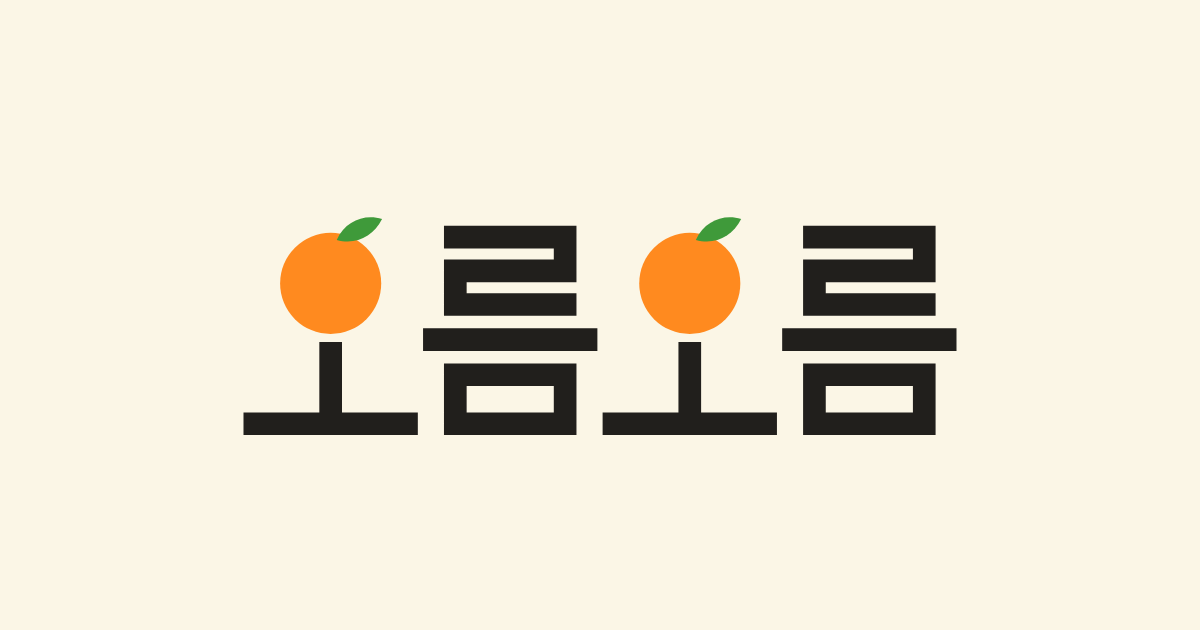
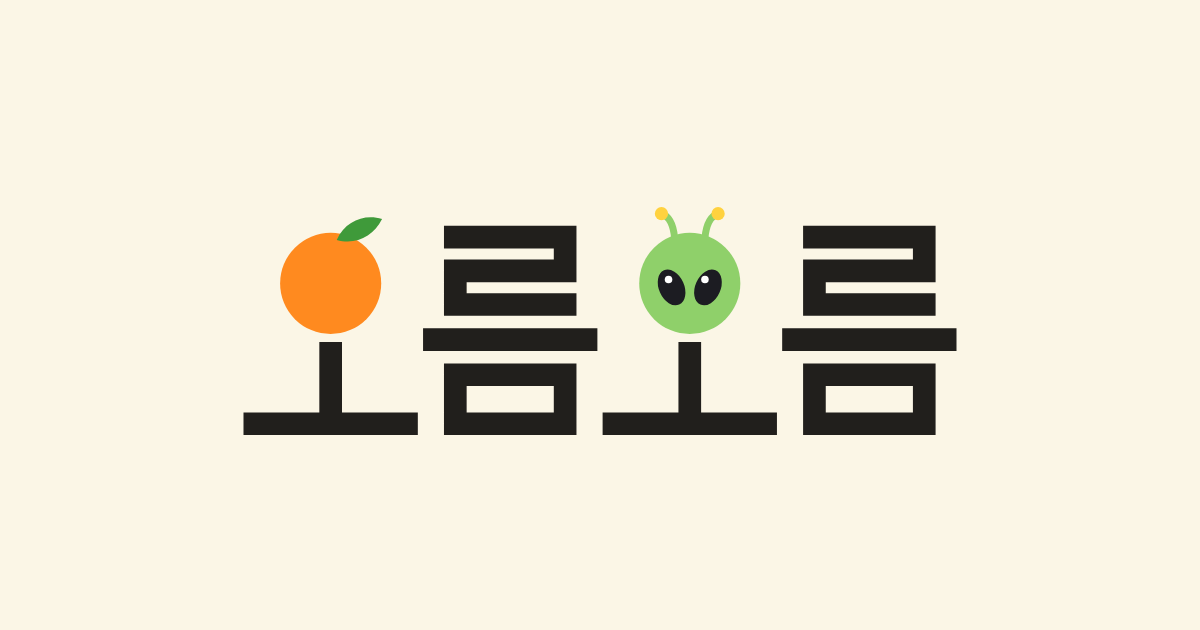
#150 첫 화면 UFO, 로고 두 번째 '오' 를 외계인 얼굴로
Claude-Session: https://claude.ai/code/session_01Hf36mc3kXyFKZ5jz1TVCuK

Changed region(s): [[0.5242, 0.3317, 0.6167, 0.5429]]

diff --git a/src/game/ufo.js b/src/game/ufo.js
@@ -1,0 +1,75 @@
+// 첫 화면 UFO (#150): 시작 전, 뒤 풍경 하늘로 비행접시가 로고 뒤를 스치며 가로지름. 시작하면 사라짐
+// 카메라 앞 UFO.dist 거리에 두고 화면 좌표로 움직임(첫 화면 카메라가 오름을 돌아도 늘 화면 안을 지나감). 게임 안 구역 5 외계인과는 따로
+// 모양은 코드로: 납작한 접시 + 둥근 덮개(안에 초록 외계인) + 테두리 불빛, 아래 옅은 초록 빛기둥(저사양은 빼고 접시만)
+import * as THREE from 'three';
+import { UFO } from '../balance.js';
+import { LOW } from '../gfx2.js';
+import { gradHard } from '../toon.js';
+import { state, late } from './state.js';
+import { $ } from './save.js';
+import { scene, camera } from './scene.js';
+import { sound } from './hooks.js';
+
+const ON = new THREE.Color('#ffd23f'), OFF = new THREE.Color('#8a7a3a');
+const toon = (color) => new THREE.MeshToonMaterial({ color, gradientMap: gradHard, fog: false, emissive: color, emissiveIntensity: 0.35 }); // 밤에도 하늘에서 보이게 조금 스스로 빛남
+function build() {
+  const g = new THREE.Group(), body = new THREE.Group(); g.add(body);
+  const disc = new THREE.Mesh(new THREE.SphereGeometry(1, 24, 10), toon('#b9c6c1')); disc.scale.set(1, 0.24, 1); body.add(disc);
+  const rim = new THREE.Mesh(new THREE.TorusGeometry(0.98, 0.07, 6, 28), toon('#6f7f79')); rim.rotation.x = Math.PI / 2; body.add(rim);
+  const belly = new THREE.Mesh(new THREE.CylinderGeometry(0.34, 0.42, 0.14, 16), toon('#7d8c86')); belly.position.y = -0.2; body.add(belly);
+  const dome = new THREE.Mesh(new THREE.SphereGeometry(0.46, 18, 8, 0, Math.PI * 2, 0, Math.PI / 2), new THREE.MeshToonMaterial({ color: '#bdf0e2', gradientMap: gradHard, fog: false, transparent: true, opacity: 0.55, depthWrite: false }));
+  dome.position.y = 0.14; dome.renderOrder = 2;
+  const head = new THREE.Mesh(new THREE.SphereGeometry(0.2, 14, 10), toon('#8fd06a')); head.position.y = 0.3; body.add(head); body.add(dome);
+  const eyeM = new THREE.MeshBasicMaterial({ color: '#1c1c22', fog: false });
+  for (const k of [-1, 1]) { const e = new THREE.Mesh(new THREE.SphereGeometry(0.06, 8, 6), eyeM); e.scale.set(0.8, 1.3, 0.5); e.position.set(k * 0.085, 0.31, 0.17); e.rotation.z = -k * 0.4; body.add(e); }
+  // 테두리 불빛 8개: 한 번에 그리기(InstancedMesh), 번갈아 깜빡임은 색으로
+  const lights = new THREE.InstancedMesh(new THREE.SphereGeometry(0.07, 8, 6), new THREE.MeshBasicMaterial({ color: '#ffffff', fog: false }), 8), m4 = new THREE.Matrix4();
+  for (let i = 0; i < 8; i++) { const a = i / 8 * Math.PI * 2; lights.setMatrixAt(i, m4.makeTranslation(Math.cos(a) * 0.82, 0.02, Math.sin(a) * 0.82)); lights.setColorAt(i, ON); }
+  body.add(lights);
+  let beam = null;
+  if (!LOW) { // 빛기둥: 위가 좁고 아래가 넓은 옅은 초록 원뿔
+    beam = new THREE.Mesh(new THREE.ConeGeometry(0.75, 2.6, 20, 1, true), new THREE.MeshBasicMaterial({ color: '#9dff9a', transparent: true, opacity: 0.2, depthWrite: false, side: THREE.DoubleSide, blending: THREE.AdditiveBlending, fog: false }));
+    beam.position.y = -1.5; beam.renderOrder = 1; g.add(beam);
+  }
+  g.visible = false; g.frustumCulled = false; g.traverse((o) => { o.frustumCulled = false; });
+  return { g, body, lights, beam };
+}
+
+const U = build(); U.g.userData.noCull = true; scene.add(U.g); // 멀리 감추기(farCull)에서 빼기: 카메라 앞을 따라다님
+let wait = UFO.first, t = -1, dir = 1, y0 = 0.5, done = false;
+const fwd = new THREE.Vector3(), right = new THREE.Vector3(), up = new THREE.Vector3(), tmpQ = new THREE.Quaternion(), tilt = new THREE.Quaternion(), X = new THREE.Vector3(1, 0, 0), Z = new THREE.Vector3(0, 0, 1);
+const introOn = () => !$('intro').hidden && !state.sessionOn;
+// 로고 윗선 높이를 화면 좌표(-1~1)로: 접시가 글자 윗부분 뒤를 스치고 덮개·빛기둥은 보이게. 로고가 안 보이면(도움말) 화면 위쪽 1/4
+function logoY() {
+  const el = $('intro-logo'), r = el?.getBoundingClientRect();
+  if (!r || !r.height) return 0.5;
+  return 1 - 2 * (r.top + r.height * 0.08) / innerHeight;
+}
+function end() { done = true; U.g.visible = false; scene.remove(U.g); U.g.traverse((o) => { o.geometry?.dispose(); }); }
+export function tickUfo(dt) {
+  if (done) return;
+  if (!introOn()) { if (state.sessionOn) end(); else U.g.visible = false; return; } // 시작을 누르면 사라짐
+  if (t < 0) { wait -= dt; if (wait > 0) { U.g.visible = false; return; } t = 0; dir = Math.random() < 0.5 ? 1 : -1; y0 = logoY(); sound.ufo?.(); }
+  t += dt; const u = t / UFO.cross;
+  if (u >= 1) { t = -1; wait = UFO.gap[0] + Math.random() * (UFO.gap[1] - UFO.gap[0]); U.g.visible = false; return; }
+  const D = UFO.dist, hh = D * Math.tan(camera.fov * Math.PI / 360), hw = hh * camera.aspect;
+  const diam = Math.min(2 * hh * UFO.size, 2 * hw * UFO.sizeW), s = diam / 2;
+  const sm = u * u * (3 - 2 * u) * 0.35 + u * 0.65; // 들어올 때·나갈 때 살짝 느리게
+  const x = dir * (-(hw + diam) + sm * 2 * (hw + diam)), y = y0 * hh + Math.sin(t * 2.6) * diam * UFO.bob;
+  camera.getWorldDirection(fwd); right.set(1, 0, 0).applyQuaternion(camera.quaternion); up.set(0, 1, 0).applyQuaternion(camera.quaternion);
+  U.g.position.copy(camera.position).addScaledVector(fwd, D).addScaledVector(right, x).addScaledVector(up, y);
+  U.g.quaternion.copy(camera.quaternion); // 화면과 같은 방향으로 세운 뒤 윗면이 조금 보이게 숙이고, 가는 쪽으로 기우뚱
+  tilt.setFromAxisAngle(X, 0.32); U.g.quaternion.multiply(tilt);
+  tmpQ.setFromAxisAngle(Z, -dir * 0.14 + Math.sin(t * 3.1) * 0.07); U.g.quaternion.multiply(tmpQ);
+  U.g.scale.setScalar(s);
+  const blink = Math.floor(t * 8);
+  for (let i = 0; i < 8; i++) U.lights.setColorAt(i, (i + blink) % 2 ? ON : OFF);
+  U.lights.instanceColor.needsUpdate = true;
+  if (U.beam) U.beam.material.opacity = 0.14 + 0.08 * Math.sin(t * 9) * Math.sin(t * 2.3);
+  U.g.visible = true;
+}
+late.tickUfo = tickUfo;
+// 확인용 (#150): window.__oreum.ufo() 로 바로 지나가게
+late.ufoNow = () => { if (!done) { t = -1; wait = 0; } };
+const pv = new THREE.Vector3();
+late.ufoInfo = () => ({ on: U.g.visible, t, wait: +wait.toFixed(1), done, x: U.g.visible ? +pv.copy(U.g.position).project(camera).x.toFixed(2) : null, y: U.g.visible ? +pv.copy(U.g.position).project(camera).y.toFixed(2) : null, beam: !!U.beam });

diff --git a/src/logo.js b/src/logo.js
@@ -1,7 +1,7 @@
-// 오름오름 로고 (#87): 획 굵기가 고른 굵은 고딕 '오름오름', 두 '오'의 ㅇ 은 모두 귤(귤색 원 + 작은 초록 잎). 능선 장식 없음.
+// 오름오름 로고 (#87): 획 굵기가 고른 굵은 고딕 '오름오름'. 첫 '오'의 ㅇ 은 귤(귤색 원 + 작은 초록 잎), 두 번째 ㅇ 은 외계인 얼굴(#150). 능선 장식 없음.
 // 글꼴에 기대지 않고 선(path)으로만 그려서 첫 화면·파비콘·공유 이미지·사진 틀 어디서나 똑같이 보임. 가로형 하나로 통일.
 // 색: 밝은 배경에선 짙은 먹색, 어두운 배경(dark)에선 흰색. 귤만 색.
-export const LOGO_COLORS = { ink: '#211f1c', white: '#ffffff', paper: '#fbf6e6', gyul: '#ff8a1f', leaf: '#3f9a3a' };
+export const LOGO_COLORS = { ink: '#211f1c', white: '#ffffff', paper: '#fbf6e6', gyul: '#ff8a1f', leaf: '#3f9a3a', alien: '#8fd06a', eye: '#1c1c22', tip: '#ffd23f' }; // alien·eye·tip: 게임 외계인 아이콘(zonelook.js)과 같은 색
 export const LOGO_WEIGHTS = { bold: 13, heavy: 16.5 }; // 글자 획 굵기 (글자 칸 100×120 기준). 굵게 / 아주 굵게
 export const LOGO_WEIGHT = 'bold'; // 지금 쓰는 굵기
 const H = 120, ADV = 103; // 글자 높이, 글자 사이(폭 100 + 3: 촘촘히)
@@ -32,6 +32,19 @@ const f2 = (v) => +v.toFixed(2);
 const GYUL = (cx, cy, r, s) => `<circle cx="${cx}" cy="${cy}" r="${r}" fill="${LOGO_COLORS.gyul}"/>` + LEAF(cx, cy, r, s);
 // 귤 둘레 테두리(halo): 같은 모양을 테두리 색으로 굵게
 const GYUL_HALO = (cx, cy, r, c, sw) => { const e = ` stroke="${c}" stroke-width="${sw}" stroke-linejoin="round"`; return `<circle cx="${cx}" cy="${cy}" r="${r}" fill="${c}"${e}/>` + LEAF(cx, cy, r, 1, c, e); };
+// 외계인 얼굴 (#150): 귤과 같은 원(같은 반지름·자리) + 크고 기운 검은 눈 둘 + 잎 자리에 더듬이 둘
+const ANT = (cx, cy, r, stem, tip, sw = 0, extra = '') => [-1, 1].map((k) => {
+  const x0 = cx + k * r * 0.3, y0 = cy - r * 0.9, x1 = cx + k * r * 0.56, y1 = cy - r - 11;
+  return `<path d="M${f2(x0)} ${f2(y0)}Q${f2(cx + k * r * 0.34)} ${f2(y1 + 2)} ${f2(x1)} ${f2(y1)}" fill="none" stroke="${stem}" stroke-width="${f2(4 + sw)}" stroke-linecap="round"/>`
+    + `<circle cx="${f2(x1)}" cy="${f2(y1)}" r="3.8" fill="${tip}"${extra}/>`;
+}).join('');
+const ALIEN = (cx, cy, r) => {
+  const C = LOGO_COLORS, ex = r * 0.36, ey = cy + r * 0.08, rx = r * 0.25, ry = r * 0.37;
+  const eye = (k) => `<ellipse cx="${f2(cx + k * ex)}" cy="${f2(ey)}" rx="${f2(rx)}" ry="${f2(ry)}" fill="${C.eye}" transform="rotate(${k * 24} ${f2(cx + k * ex)} ${f2(ey)})"/>`
+    + `<circle cx="${f2(cx + k * ex - r * 0.06)}" cy="${f2(ey - ry * 0.42)}" r="${f2(r * 0.075)}" fill="#fff"/>`;
+  return ANT(cx, cy, r, C.alien, C.tip) + `<circle cx="${cx}" cy="${cy}" r="${r}" fill="${C.alien}"/>` + eye(-1) + eye(1);
+};
+const ALIEN_HALO = (cx, cy, r, c, sw) => `<circle cx="${cx}" cy="${cy}" r="${r}" fill="${c}" stroke="${c}" stroke-width="${sw}"/>` + ANT(cx, cy, r, c, c, sw, ` stroke="${c}" stroke-width="${sw}"`);
 
 // 로고 SVG 문자열 (가로형). opts.dark: 어두운 배경용(흰 글자), opts.weight: 'bold'|'heavy',
 // opts.halo: 글자 둘레 테두리 색(장면 위에 얹을 때 떼어 보이게), opts.cls·opts.label
@@ -40,7 +53,7 @@ export function logoSvg({ dark = false, weight = LOGO_WEIGHT, halo = '', cls = '
   let d = '', gy = '', hg = '';
   [...'오름오름'].forEach((ch, i) => {
     const s = syl(ch, i * ADV, w); d += s.d;
-    if (s.gyul) { const { cx, cy, r } = s.gyul; gy += GYUL(cx, cy, r); if (halo) hg += GYUL_HALO(cx, cy, r, halo, 12); }
+    if (s.gyul) { const { cx, cy, r } = s.gyul, al = i > 0; gy += al ? ALIEN(cx, cy, r) : GYUL(cx, cy, r); if (halo) hg += al ? ALIEN_HALO(cx, cy, r, halo, 12) : GYUL_HALO(cx, cy, r, halo, 12); } // 두 번째 '오' 는 외계인 (#150)
   });
   const st = (c, sw) => `fill="none" stroke="${c}" stroke-width="${sw}" stroke-linecap="butt" stroke-linejoin="miter"`;
   const pad = halo ? 10 : 2, top = 18; // 위: 잎 자리
@@ -48,7 +61,7 @@ export function logoSvg({ dark = false, weight = LOGO_WEIGHT, halo = '', cls = '
   const body = (halo ? `<path d="${d}" ${st(halo, w + 12)}/>${hg}` : '') + `<path d="${d}" ${st(ink, w)}/>${gy}`;
   return `<svg xmlns="http://www.w3.org/2000/svg" viewBox="${-pad} ${-top - pad} ${W + pad * 2} ${H + top + pad * 2}"${cls ? ` class="${cls}"` : ''} role="img" aria-label="${label}">${body}</svg>`;
 }
-// 파비콘: 귤 하나만(잎 포함). 배경 없음. 16px 에서도 또렷하게 원을 크게, 잎은 굵게
+// 파비콘: 귤 하나만(잎 포함). 외계인 얼굴(#150)은 16px 에서 눈이 뭉개져 파비콘·앱 아이콘은 귤 그대로. 배경 없음. 16px 에서도 또렷하게 원을 크게, 잎은 굵게
 export function logoMark() {
   return `<svg xmlns="http://www.w3.org/2000/svg" viewBox="0 0 64 64"><circle cx="29" cy="38" r="25" fill="${LOGO_COLORS.gyul}"/><path d="M31 15c2 -10 15 -16 30 -12c-5 12 -18 16 -30 12z" fill="${LOGO_COLORS.leaf}"/></svg>`;
 }

diff --git a/src/game/debug.js b/src/game/debug.js
@@ -135,7 +135,7 @@ if (/(^|[#&])dev($|&)/.test(location.hash)) devLabels.set(true);
 if (wearRefund) { persist(); setTimeout(() => toast(`예전 옷 색은 없어졌어요 · 귤 ${wearRefund}개를 돌려드렸어요`), 3500); } // #52
 // 콘솔 확인 함수 (#84): 개발 빌드는 늘, 공개 빌드(release, PUBLIC=1)는 어드민에게만 (enableDev). 보안은 서버가 지키고, 이건 함부로 만지지 않게 하는 정도
 state.debugReady = false;
-function exposeDebug() { window.__oreum = debugApi(); window.__oreum.director = { api: director, state: () => director.state(), open: (id) => director.open(id), log: director.log, can: (k) => director.can(k) }; window.__oreum.quest = late.questDebug; window.__oreum.season = late.season?.test; window.__oreum.punk = late.punk; } // 감독 (#176), 퀘스트 (#158)
+function exposeDebug() { window.__oreum = debugApi(); window.__oreum.director = { api: director, state: () => director.state(), open: (id) => director.open(id), log: director.log, can: (k) => director.can(k) }; window.__oreum.quest = late.questDebug; window.__oreum.season = late.season?.test; window.__oreum.punk = late.punk; window.__oreum.ufo = () => late.ufoNow?.(); window.__oreum.ufoInfo = () => late.ufoInfo?.(); } // 감독 (#176), 퀘스트 (#158)
 function debugApi() { return { bag: { open: (t) => late.openBag(t), close: () => late.closeBag(), s: () => ({ ...bagS, mode: cam.mode, cards: document.querySelectorAll('#bag-cards .bag-card').length }) }, zoneLook: zoneLook && { api: zoneLook, gates: () => zoneLook.gates.map((G) => ({ kind: G.kind, from: G.from, to: G.to, x: +G.x.toFixed(1), z: +G.z.toFixed(1), fx: +G.fx.toFixed(2), fz: +G.fz.toFixed(2), sign: G.sign })), counts: () => zoneLook.counts(), stats: () => zoneLook.stats(), openMap: () => late.openMap?.() }, gearScore: () => gearScore(save), charKit: { THREE, buildRunner, SKIN_TONES, TOOL_GEAR, BAG_GEAR, SHOE_GEAR, CLOTHES, HAIR }, screen: () => ({ ...screenInfo(), fov: camera.fov, w: innerWidth, h: innerHeight }), toggleFullscreen, assets: assetInfo, lifeModels: { mount: (i = 0) => mountDeer(life.deer[i]), dismount: () => dismountDeer(), lamps: () => lamps.points.length }, deerNet: () => late.deerNet, feedback, rank, emo: state.emo, doEmote, net, online: ONLINE && { account: () => state.account, fake: (n) => mountLogin.fake?.(n), live: () => !!trash?.store && net.ready }, rides: { // 탈것·마차 (#69)
   give: (id) => { if (RIDE_BY[id] && !save.rides.own.includes(id)) { save.rides.own.push(id); save.rides.cur = id; persist(); updateRideBtn(); } }, mount: (id) => mountRide(id), off: () => dismountRide(), toggle: () => toggleRide(), pick: () => openRideWin(),
   state: () => ({ ride: player.ride, carry: player.rideC, auto: player.rideAuto, cur: save.rides.cur, own: [...save.rides.own], speed: player.speed, grade: player.rideG, road: onRoad(player.pos.x, player.pos.z), zone: noRideZone(player.pos.x, player.pos.z), code: rideCode(), cart: player.cart && { ...player.cart } }),

diff --git a/src/audio.js b/src/audio.js
@@ -290,6 +290,16 @@ export class Sound {
       [1980, 2970].forEach((fr, k) => { const o = c.createOscillator(); o.frequency.value = fr * (1 + (Math.random() - 0.5) * 0.02); const g = c.createGain(); g.gain.setValueAtTime(0.03 * vol / (k + 1), t); g.gain.exponentialRampToValueAtTime(0.0001, t + 0.45); o.connect(g); g.connect(this.sfx); o.start(t); o.stop(t + 0.5); }); }
   }
 
+  ufo() { // 첫 화면 UFO (#150): 낮은 '웅' 한 번 (떨리며 커졌다 작아짐)
+    if (!this.on || !this.sfxOn) return;
+    const c = this.ctx, t = c.currentTime, T = 2.4;
+    const o = c.createOscillator(); o.type = 'sawtooth'; o.frequency.setValueAtTime(62, t); o.frequency.linearRampToValueAtTime(48, t + T);
+    const f = c.createBiquadFilter(); f.type = 'lowpass'; f.frequency.value = 260;
+    const lfo = c.createOscillator(); lfo.frequency.value = 7; const lg = c.createGain(); lg.gain.value = 0.35; lfo.connect(lg); const tr = c.createGain(); tr.gain.value = 1; lg.connect(tr.gain);
+    const g = c.createGain(); g.gain.setValueAtTime(0.0001, t); g.gain.exponentialRampToValueAtTime(0.09, t + 0.7); g.gain.exponentialRampToValueAtTime(0.0001, t + T);
+    o.connect(f); f.connect(tr); tr.connect(g); g.connect(this.sfx); o.start(t); lfo.start(t); o.stop(t + T + 0.05); lfo.stop(t + T + 0.05);
+  }
+
   beep(hi) {
     if (!this.on || !this.sfxOn) return;
     const c = this.ctx; const t = c.currentTime;

diff --git a/src/game/update.js b/src/game/update.js
@@ -327,6 +327,7 @@ function step(now) {
     ease(dt, false, 1.5);
   } else if (cam.mode === 'photo') ease(dt, false, 4);
 
+  late.tickUfo?.(dt); // 첫 화면 UFO (#150): 카메라를 옮긴 뒤
   updateContext(); tickAimMark(now / 1000); tickEdgeAim();
   if (state.toastT > 0) { state.toastT -= dt; if (state.toastT <= 0) ui.toast.hidden = true; }
   tickDirector(dt); late.tickQuest?.(dt); tickTips(dt); tickPickMsg(dt); tickNewVer(dt);
@@ -364,7 +365,7 @@ state.farCull = createFarCull(camera, quality.tier);
   const lifeG = life.deer[0]?.root.parent || null;
   const draws = (o) => { let n = 0; o.traverse((c) => { if ((c.isMesh && !c.isInstancedMesh) || c.isSprite) n++; }); return n; };
   for (const o of scene.children) {
-    if (o === runner.root || o === lifeG || o.isMesh || o.isPoints || o.isSprite || o.isLight || o.name === 'halla') continue;
+    if (o === runner.root || o === lifeG || o.isMesh || o.isPoints || o.isSprite || o.isLight || o.name === 'halla' || o.userData.noCull) continue; // noCull: 카메라를 따라다니는 것(첫 화면 UFO #150)
     if (draws(o) < 3) continue;
     state.farCull.add(o);
   }

diff --git a/src/balance.js b/src/balance.js
@@ -911,6 +911,16 @@ export const TITLE = {
   spin: 0.035,  // 도는 빠르기 (rad/초)
   notes: 3,     // 첫 화면에 보이는 최근 릴리스 노트 줄 수
 };
+// 첫 화면 UFO (#150): 시작 전 하늘을 가로지르는 비행접시. 시작하면 사라짐
+export const UFO = {
+  first: 2,       // 첫 화면이 뜨고 처음 나타나기까지(초)
+  cross: 6,       // 화면을 가로지르는 시간(초)
+  gap: [20, 30],  // 그 뒤 다시 지나가는 간격(초, 이 사이 아무 값)
+  dist: 120,      // 카메라에서 떨어진 거리(m). 장면 안 하늘에 떠 보이게
+  size: 0.14,     // 접시 지름 = 화면 높이의 이 비율
+  sizeW: 0.3,     // 다만 화면 폭의 이 비율을 넘지 않게 (폰 세로)
+  bob: 0.12,      // 위아래 흔들림(지름 배율)
+};
 
 // 사진사 NPC (#70): 정상 표지석 근처에 삼각대를 세워 두고, 상호작용하면 사진을 찍어 줌. 무료
 export const PHOTOG = {

diff --git a/src/modules.js b/src/modules.js
@@ -99,5 +99,6 @@ import './game/punk.js'; // 오름펑크 아이템 (#164): 박스 헬멧·테왁
 import './game/buddies.js'; // 동료 캐릭터 3명 (#172)
 import './game/level.js'; // 레벨과 증강 (#159, boss·loot·buddies 뒤: 적·우두머리 후크를 감쌈)
 import './game/start.js';
+import './game/ufo.js'; // 첫 화면 UFO (#150)
 import './game/update.js';
 import './game/debug.js';

diff --git a/notes/prototype-v1.md b/notes/prototype-v1.md
@@ -62,6 +62,7 @@ Cloudflare: Workers 배포용 API 토큰 oreumoreum-deploy(90일, 2027-02-05 만
 | punk.js | 오름펑크 아이템(#164): 감귤 박스 헬멧 박스 시야(`#box-view`)·'퉁' 소리(`late.boxThud`), 해녀 테왁 배낭(배낭 겉모습 save.backs, 장비점 카드 `late.backCards`·내 가방 줄 `late.backLookRow`, 망사리 불룩 state.backFill, 개울에 뜸 `stream.hooks.float`·`late.tickSwim`·state.swim). `__oreum.punk`, 확인 `node tools/punk.js` |
 | buddies.js | 동료 캐릭터 3명(#172): 감독 문(mateSunja·mateMinsu·mateJenny)이 열리면 나옴, 길 따라 돌아다니기·줍기(`trash.buddyTake` → 방 btake, 내 줍기의 BUDDIES.share 까지·마지막 keep 남김)·민수 귤 던지기·인사·말 걸기 창(#mate-talk)·같이 가요·감정 표현 따라 하기·박수/환호/걱정·밤 평상. 내 화면에만(서버로 안 보냄), 대사 `src/buddylines.js`, 수치 balance.js BUDDIES. `late.buddies`, 확인 `node tools/buddies.js` |
 | start.js | 첫 화면 시작, 로그인, 랭킹 (서버 고르기는 #98 에서 없앰: 전투 오름 하나) |
+| ufo.js | 첫 화면 UFO(#150): 시작 전 카메라 앞 하늘로 비행접시가 로고 윗선을 스치며 지나감(수치 balance.js `UFO`, 소리 `sound.ufo()`). 시작하면 없앰. `late.tickUfo`(update.js 카메라 뒤), `__oreum.ufo()`·`ufoInfo()` |
 | update.js | 매 프레임 갱신(updatePlayer·frame), 해돋이 보기, 멀리 있는 작은 물체 감추기 |
 | debug.js | 튜토리얼·낚시 연결, 개발용 라벨, 성능 단계 메뉴, `window.__oreum` |
 
